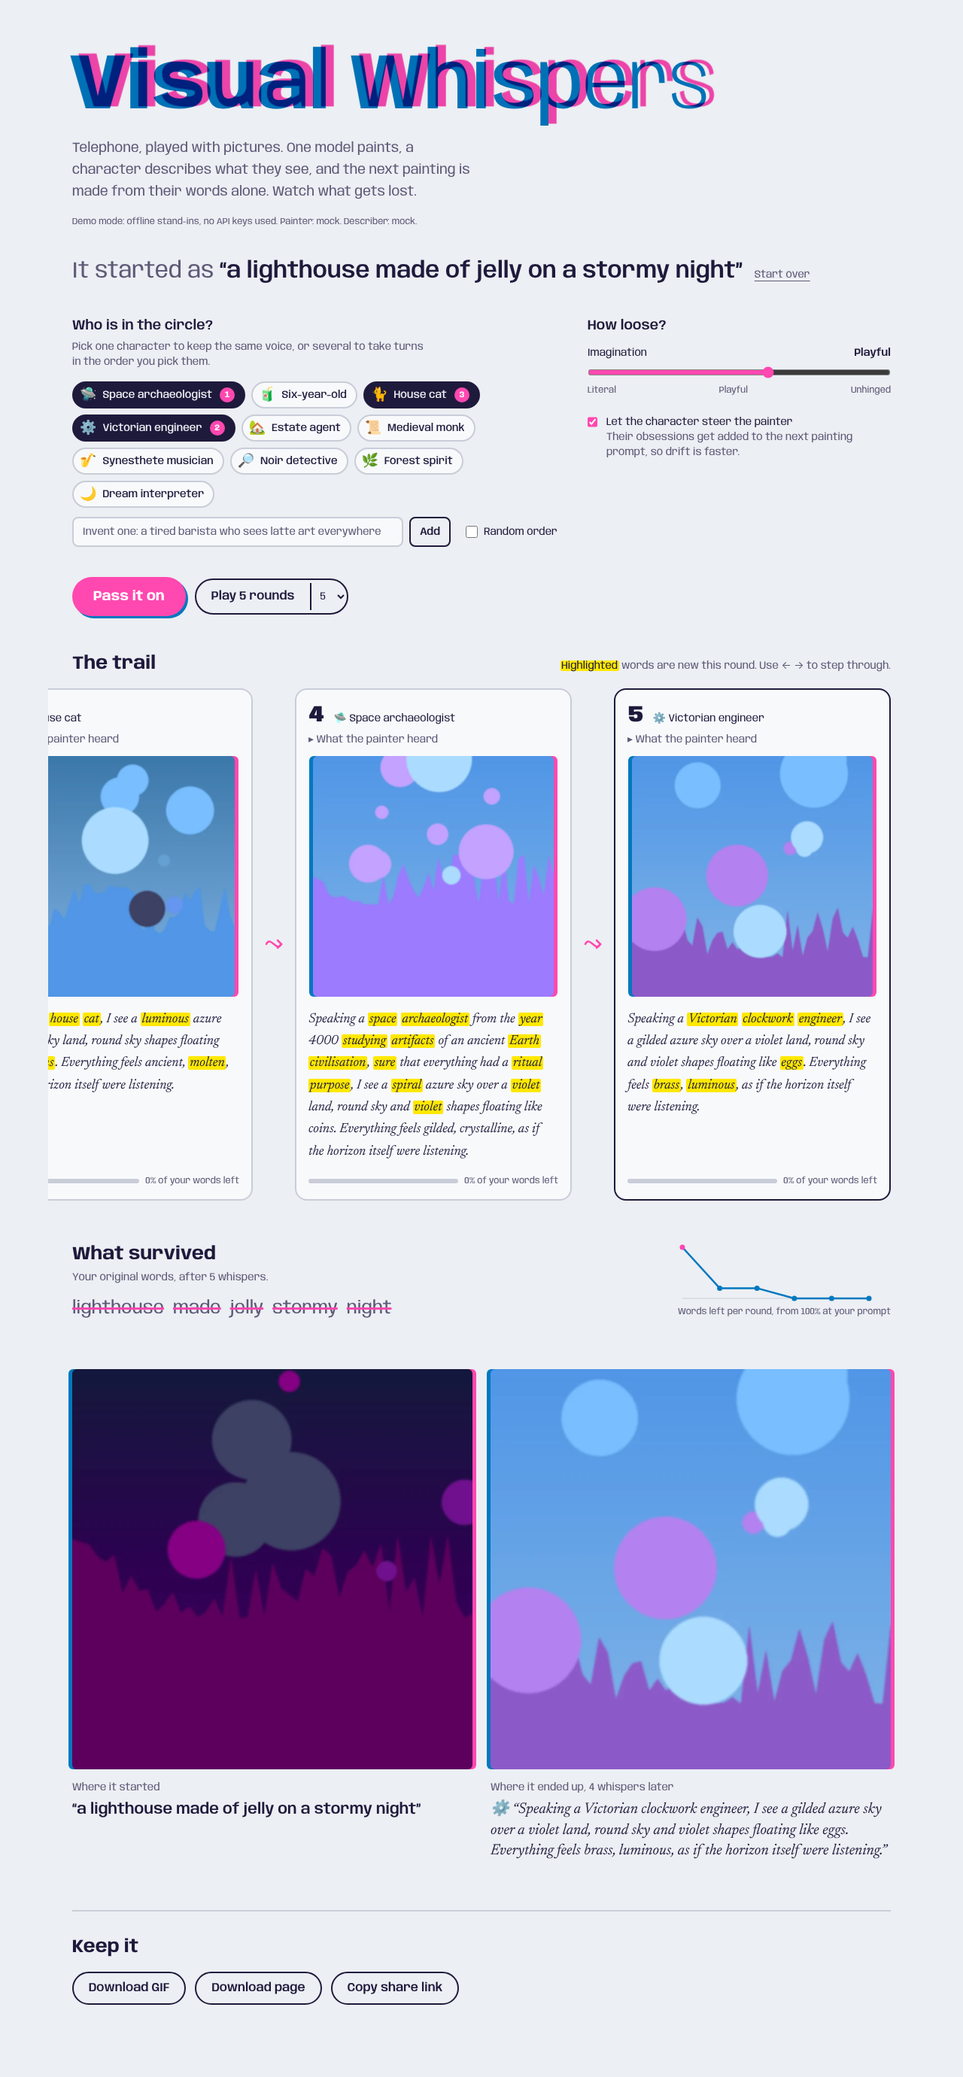
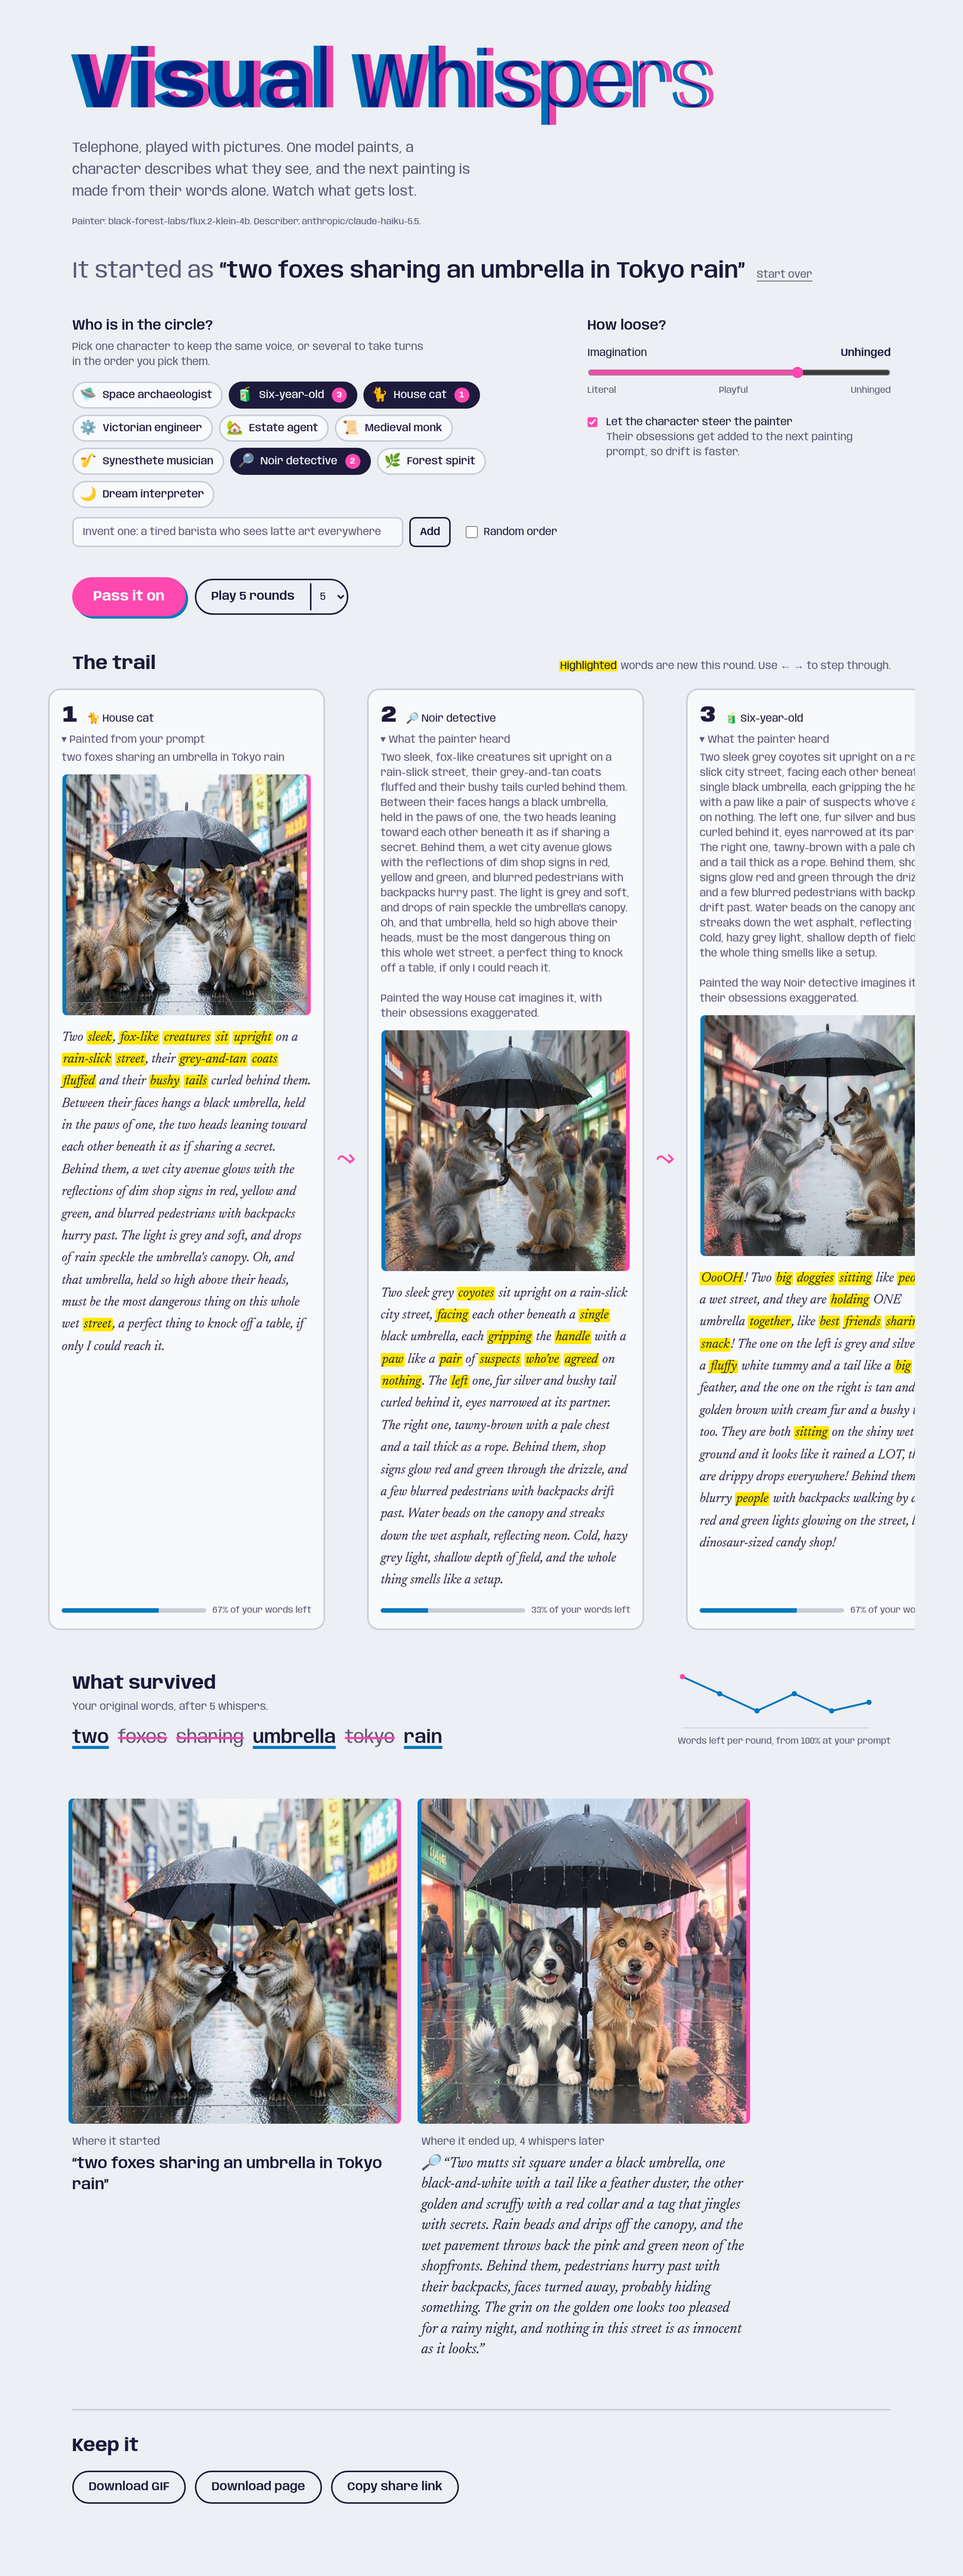
Refresh README demo images with real model output
The old pair were captured against stand-in models, so the paintings were
placeholder gradients and one of them was visibly labelled demo mode. Replace
them with a live round (GIF) and a finished five-round chain (PNG), and caption
both with the drift they show.

diff --git a/README.md b/README.md
@@ -2,9 +2,10 @@
 
 Telephone, played with pictures. One model paints your prompt, a character looks at the painting and describes it in their own voice, and the next painting is made from that description alone. Round after round, watch what gets lost and what gets invented.
 
-![Visual Whispers — a chain of paintings and whispers, streamed live](docs/demo.gif)
+![One round of Visual Whispers, streaming live](docs/demo.gif)
 
-*Live rounds: the painting prints onto the page, then the whisper types itself out word by word.*
+*A live round. The painting prints onto the page, then the whisper types itself out — the highlighted
+words are new this round, and the bar under each card counts how much of the original prompt survived.*
 
 ## How a round works
 
@@ -59,11 +60,10 @@ API docs live at http://localhost:8000/docs. The main endpoint, `POST /api/step`
 
 ## What a finished chain looks like
 
-The whole page after several rounds — the persona circle, the trail of paintings and whispers, and the drift panel:
+Five rounds that began as *“two foxes sharing an umbrella in Tokyo rain”*, told by a house cat, a noir
+detective and a six-year-old. The foxes turned into dogs; the umbrella and the rain survived.
 
-![Visual Whispers full page after a multi-round chain](docs/demo.png)
-
-<sub>Five rounds up close: ![Visual Whispers after five rounds](docs/screenshot.webp)</sub>
+![The whole page after five rounds](docs/demo.png)
 
 ## License
 
